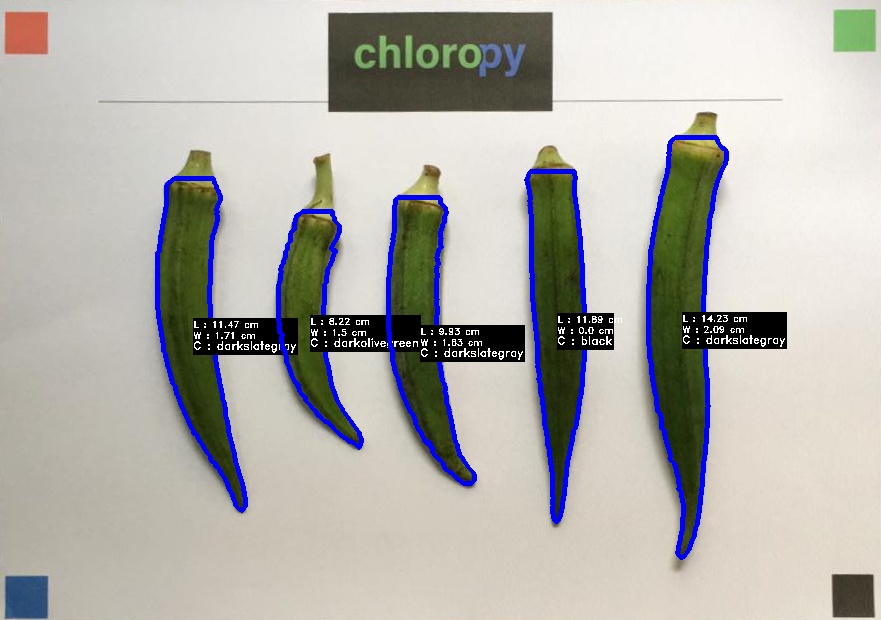
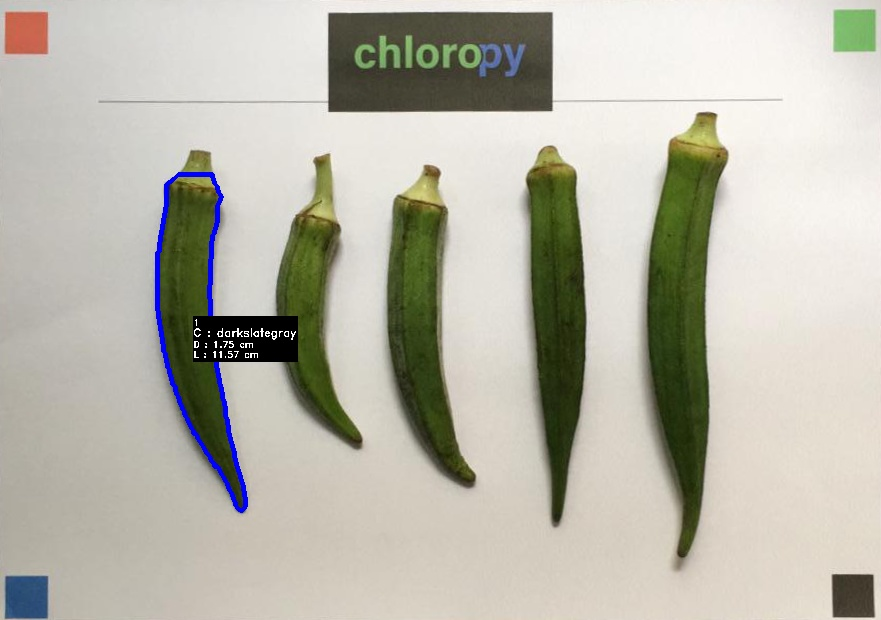
updated the main.py and animate image

Changed region(s): [[0.2145, 0.2145, 0.9194, 0.9194], [0.1839, 0.2758, 0.2452, 0.3065]]

diff --git a/tamil/length_width.py b/tamil/length_width.py
@@ -125,7 +125,7 @@ def get_max_width(img, cm_to_pixel):
     return max_width
 
 
-def animate(img, crop_img, length, width, color, coord):
+def animate(img, crop_img, length, width, color, sample, coord):
     gray = cv2.cvtColor(crop_img, cv2.COLOR_RGB2GRAY)
     ret, threshold = cv2.threshold(gray, 0, 255, cv2.THRESH_BINARY + cv2.THRESH_OTSU)
     contours, _ = cv2.findContours(threshold, cv2.RETR_LIST, cv2.CHAIN_APPROX_NONE)
@@ -144,21 +144,26 @@ def animate(img, crop_img, length, width, color, coord):
     centre_point = (int(centre_point[0]), int(centre_point[1]))
 
     fontscale = (img.shape[0] * img.shape[1]) / (3000 * 3000)
-    (text_width, text_height) = cv2.getTextSize('C : ' + color, cv2.FONT_HERSHEY_DUPLEX,
+    # (text_width, text_height) = cv2.getTextSize('C : ' + color, cv2.FONT_HERSHEY_DUPLEX,
+    #                                             fontScale=6 * fontscale, thickness=1)[0]
+    (text_width, text_height) = cv2.getTextSize(str(sample), cv2.FONT_HERSHEY_DUPLEX,
                                                 fontScale=6 * fontscale, thickness=1)[0]
+
     text_color = (255, 255, 255)
     box_color = (0, 0, 0)
 
-    h, w = text_height * 4, text_width
+    h, w = text_height, text_width
     minx, miny = centre_point[0], centre_point[1]
     maxx, maxy = centre_point[0] + w, centre_point[1] + h
 
     # img = imread(img_path)
     cv2.rectangle(img, (int(minx), int(miny)), (int(maxx), int(maxy)), box_color, cv2.FILLED)
 
-    cv2.putText(img, 'L : ' + str(length) + ' cm', (centre_point[0], centre_point[1] + text_height),
-                cv2.FONT_HERSHEY_DUPLEX, 5 * fontscale, text_color, 1)
-    cv2.putText(img, 'W : ' + str(width) + ' cm', (centre_point[0], centre_point[1] + int(text_height * 2.3)),
-                cv2.FONT_HERSHEY_DUPLEX, 5 * fontscale, text_color, 1)
-    cv2.putText(img, 'C : ' + color, (centre_point[0], centre_point[1] + int(text_height * 3.5)),
+    cv2.putText(img, str(sample), (centre_point[0], centre_point[1] + text_height),
                 cv2.FONT_HERSHEY_DUPLEX, 6 * fontscale, text_color, 1)
+    # cv2.putText(img, 'C : ' + color, (centre_point[0], centre_point[1] + int(text_height *  2.3 )),
+    #             cv2.FONT_HERSHEY_DUPLEX, 6 * fontscale, text_color, 1)
+    # cv2.putText(img, 'D : ' + str(width) + ' cm', (centre_point[0], centre_point[1] + int(text_height * 3.5)),
+    #             cv2.FONT_HERSHEY_DUPLEX, 5 * fontscale, text_color, 1)
+    # cv2.putText(img, 'L : ' + str(length) + ' cm', (centre_point[0], centre_point[1] +int(text_height * 4.6)),
+    #             cv2.FONT_HERSHEY_DUPLEX, 5 * fontscale, text_color, 1)

diff --git a/tamil/main.py b/tamil/main.py
@@ -10,7 +10,7 @@ import Get_the_color as gc
 from pathlib import Path
 import pandas as pd
 
-img_path = '/mnt/dash/Alpha_Share/Automation_Team/Tamil/NLP_learning/CHILI_LEARN/FMS_V0.1/tamil/1.jpeg'
+img_path = '/mnt/dash/Alpha_Share/Automation_Team/Tamil/NLP_learning/CHILI_LEARN/2020-08-20-Okra-fruit/IMG_8733.JPG'
 
 img = imread(img_path)
 sliced_doc = detect_paper.get_a4(img)
@@ -32,8 +32,8 @@ for coord in list_off_cords:
     length = lw.get_length(crop_img, cm_to_pixel)
     width = lw.get_width(crop_img, cm_to_pixel)
     color = gc.find_color(crop_img)
-    lw.animate(animate_img, crop_img, length, width, color, coord)
-    sample_id = 'Sample ' + str(count)
+    lw.animate(animate_img, crop_img, length, width, color,count, coord)
+    sample_id = str(count)
     source_dict[img_name].update({sample_id: {
         'length': length,
         'width': width,

diff --git a/tamil/hsv_slicer.py b/tamil/hsv_slicer.py
@@ -11,7 +11,7 @@ def hsv_slicer(img):
 
 
    cv2.createTrackbar("R1", "Chloropy",0,255,nothing)
-   cv2.createTrackbar("G1", "Chloropy",0,255,nothing)
+   cv2.createTrackbar("G1", "Chloropy",60,255,nothing)
    cv2.createTrackbar("B1", "Chloropy",0,255,nothing)
    cv2.createTrackbar("R2", "Chloropy",255,255,nothing)
    cv2.createTrackbar("G2", "Chloropy",255,255,nothing)
